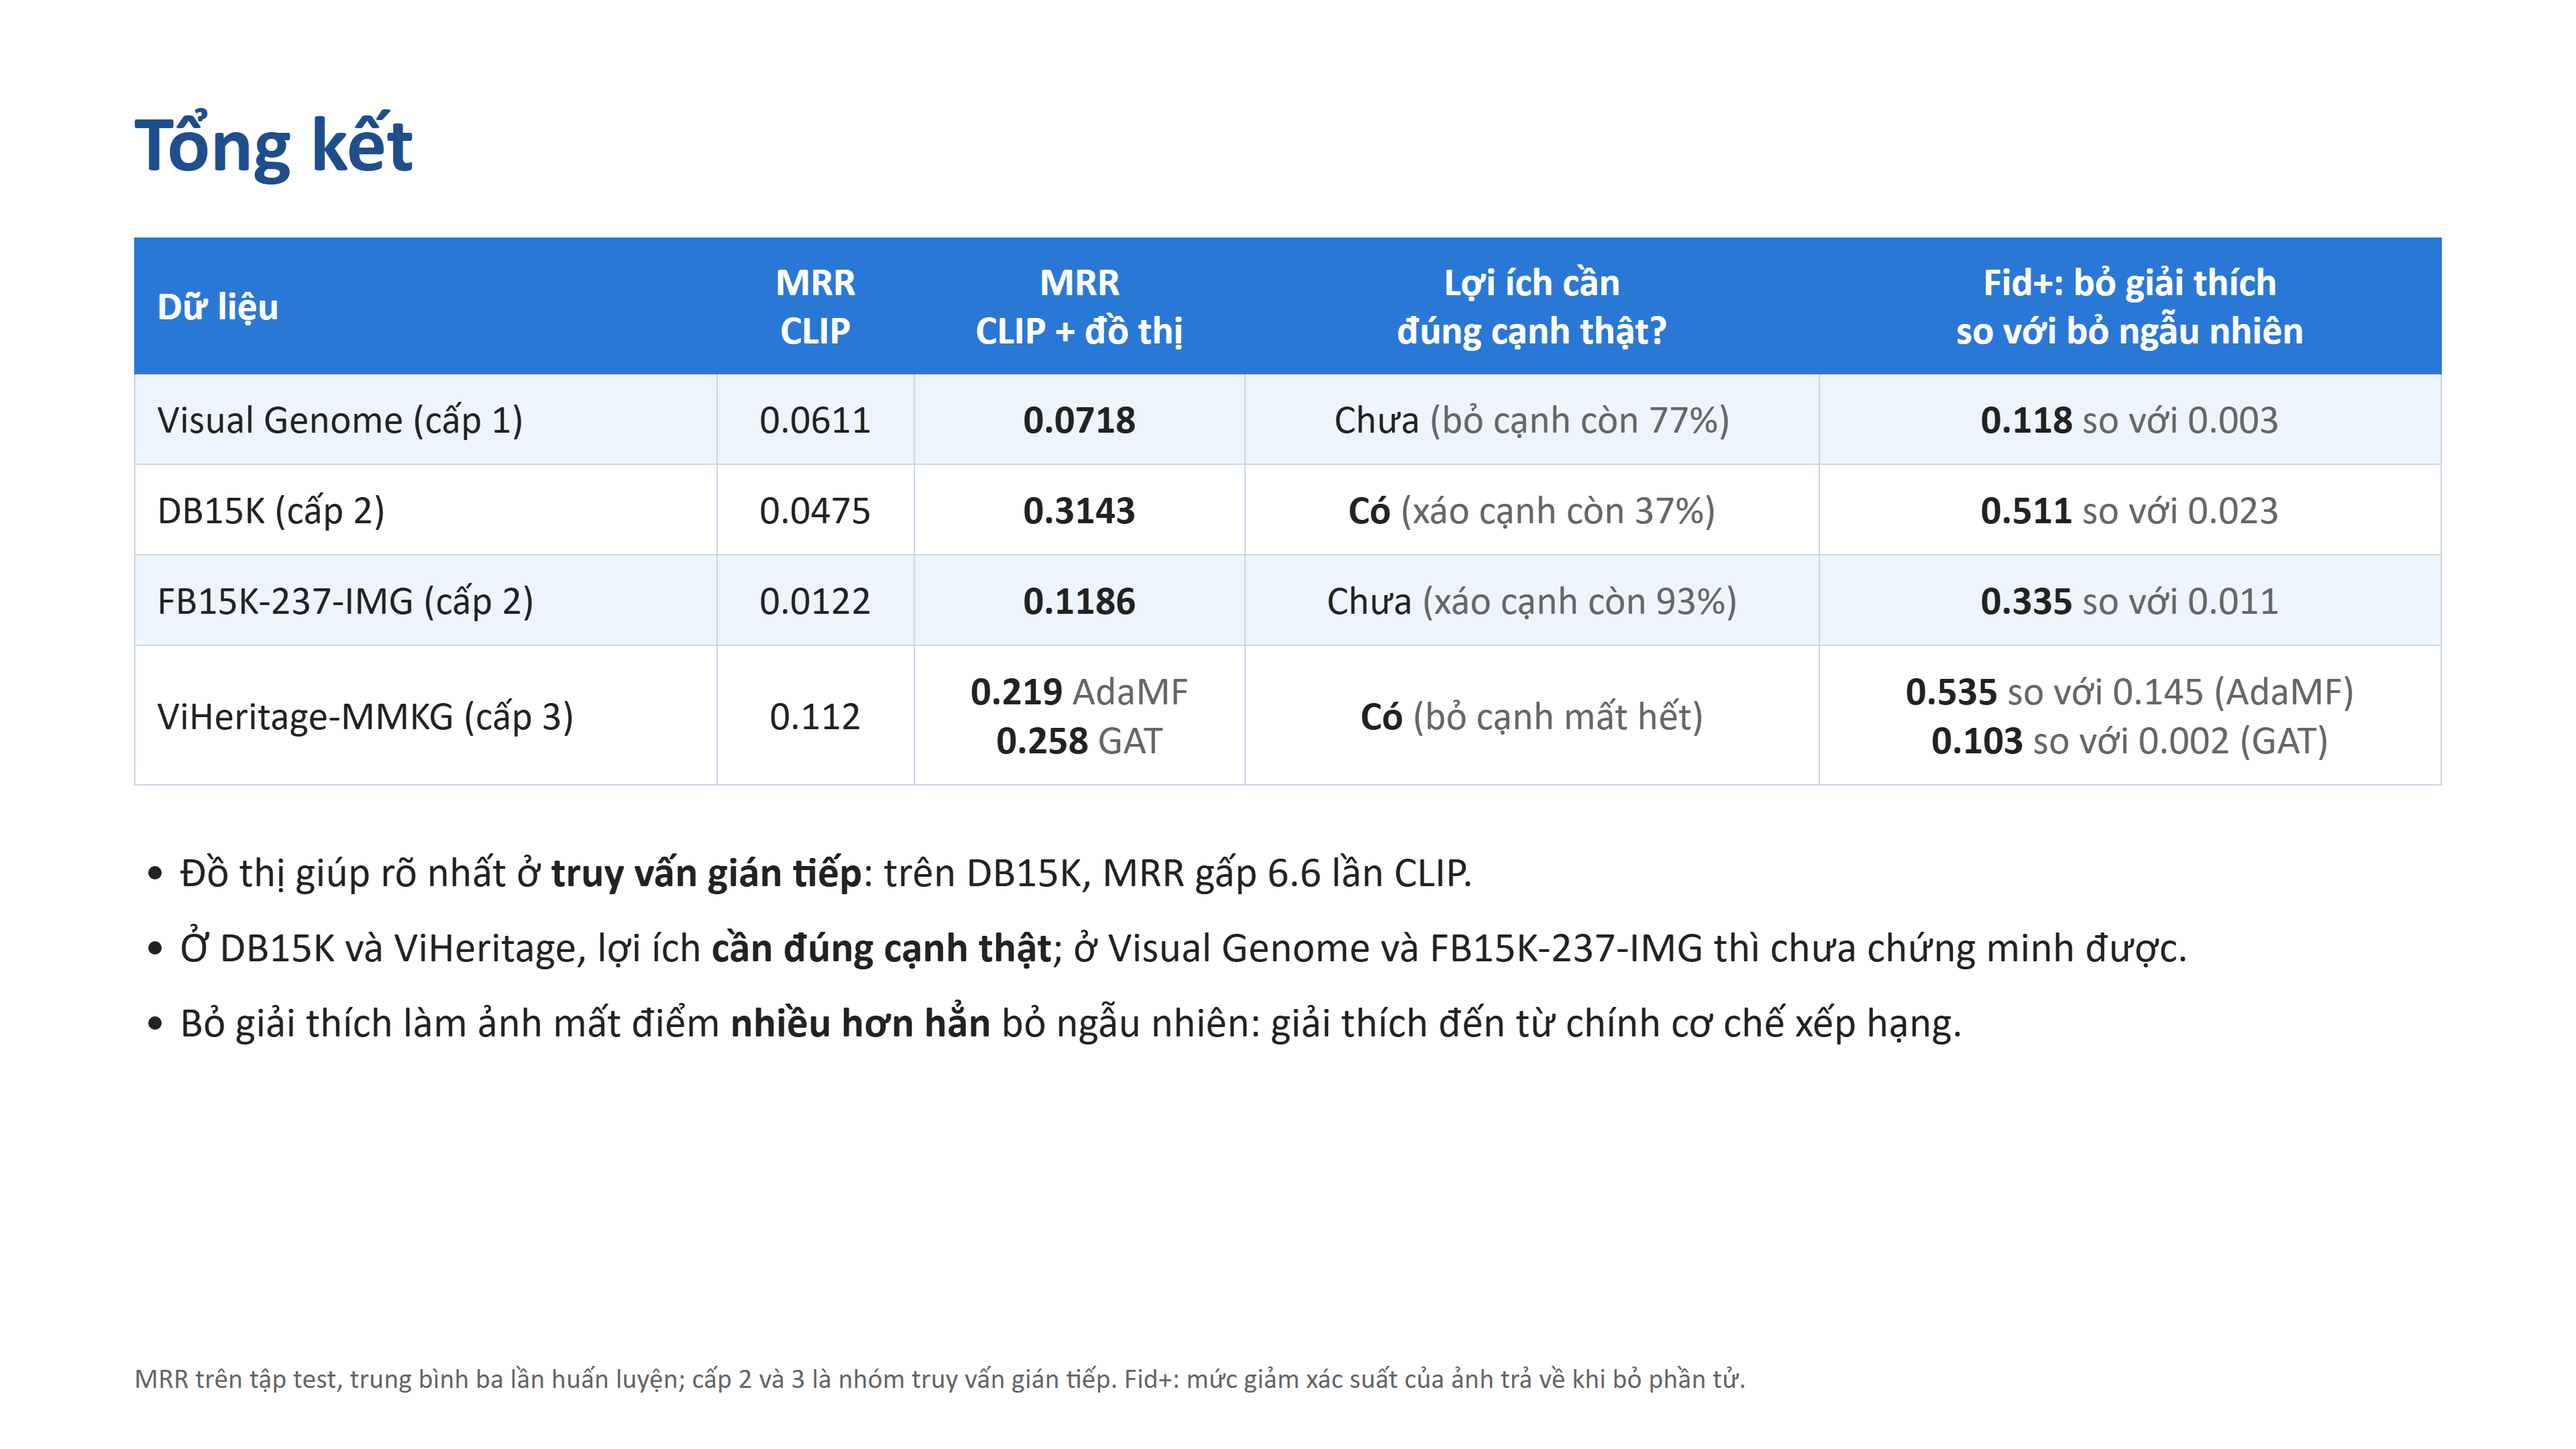
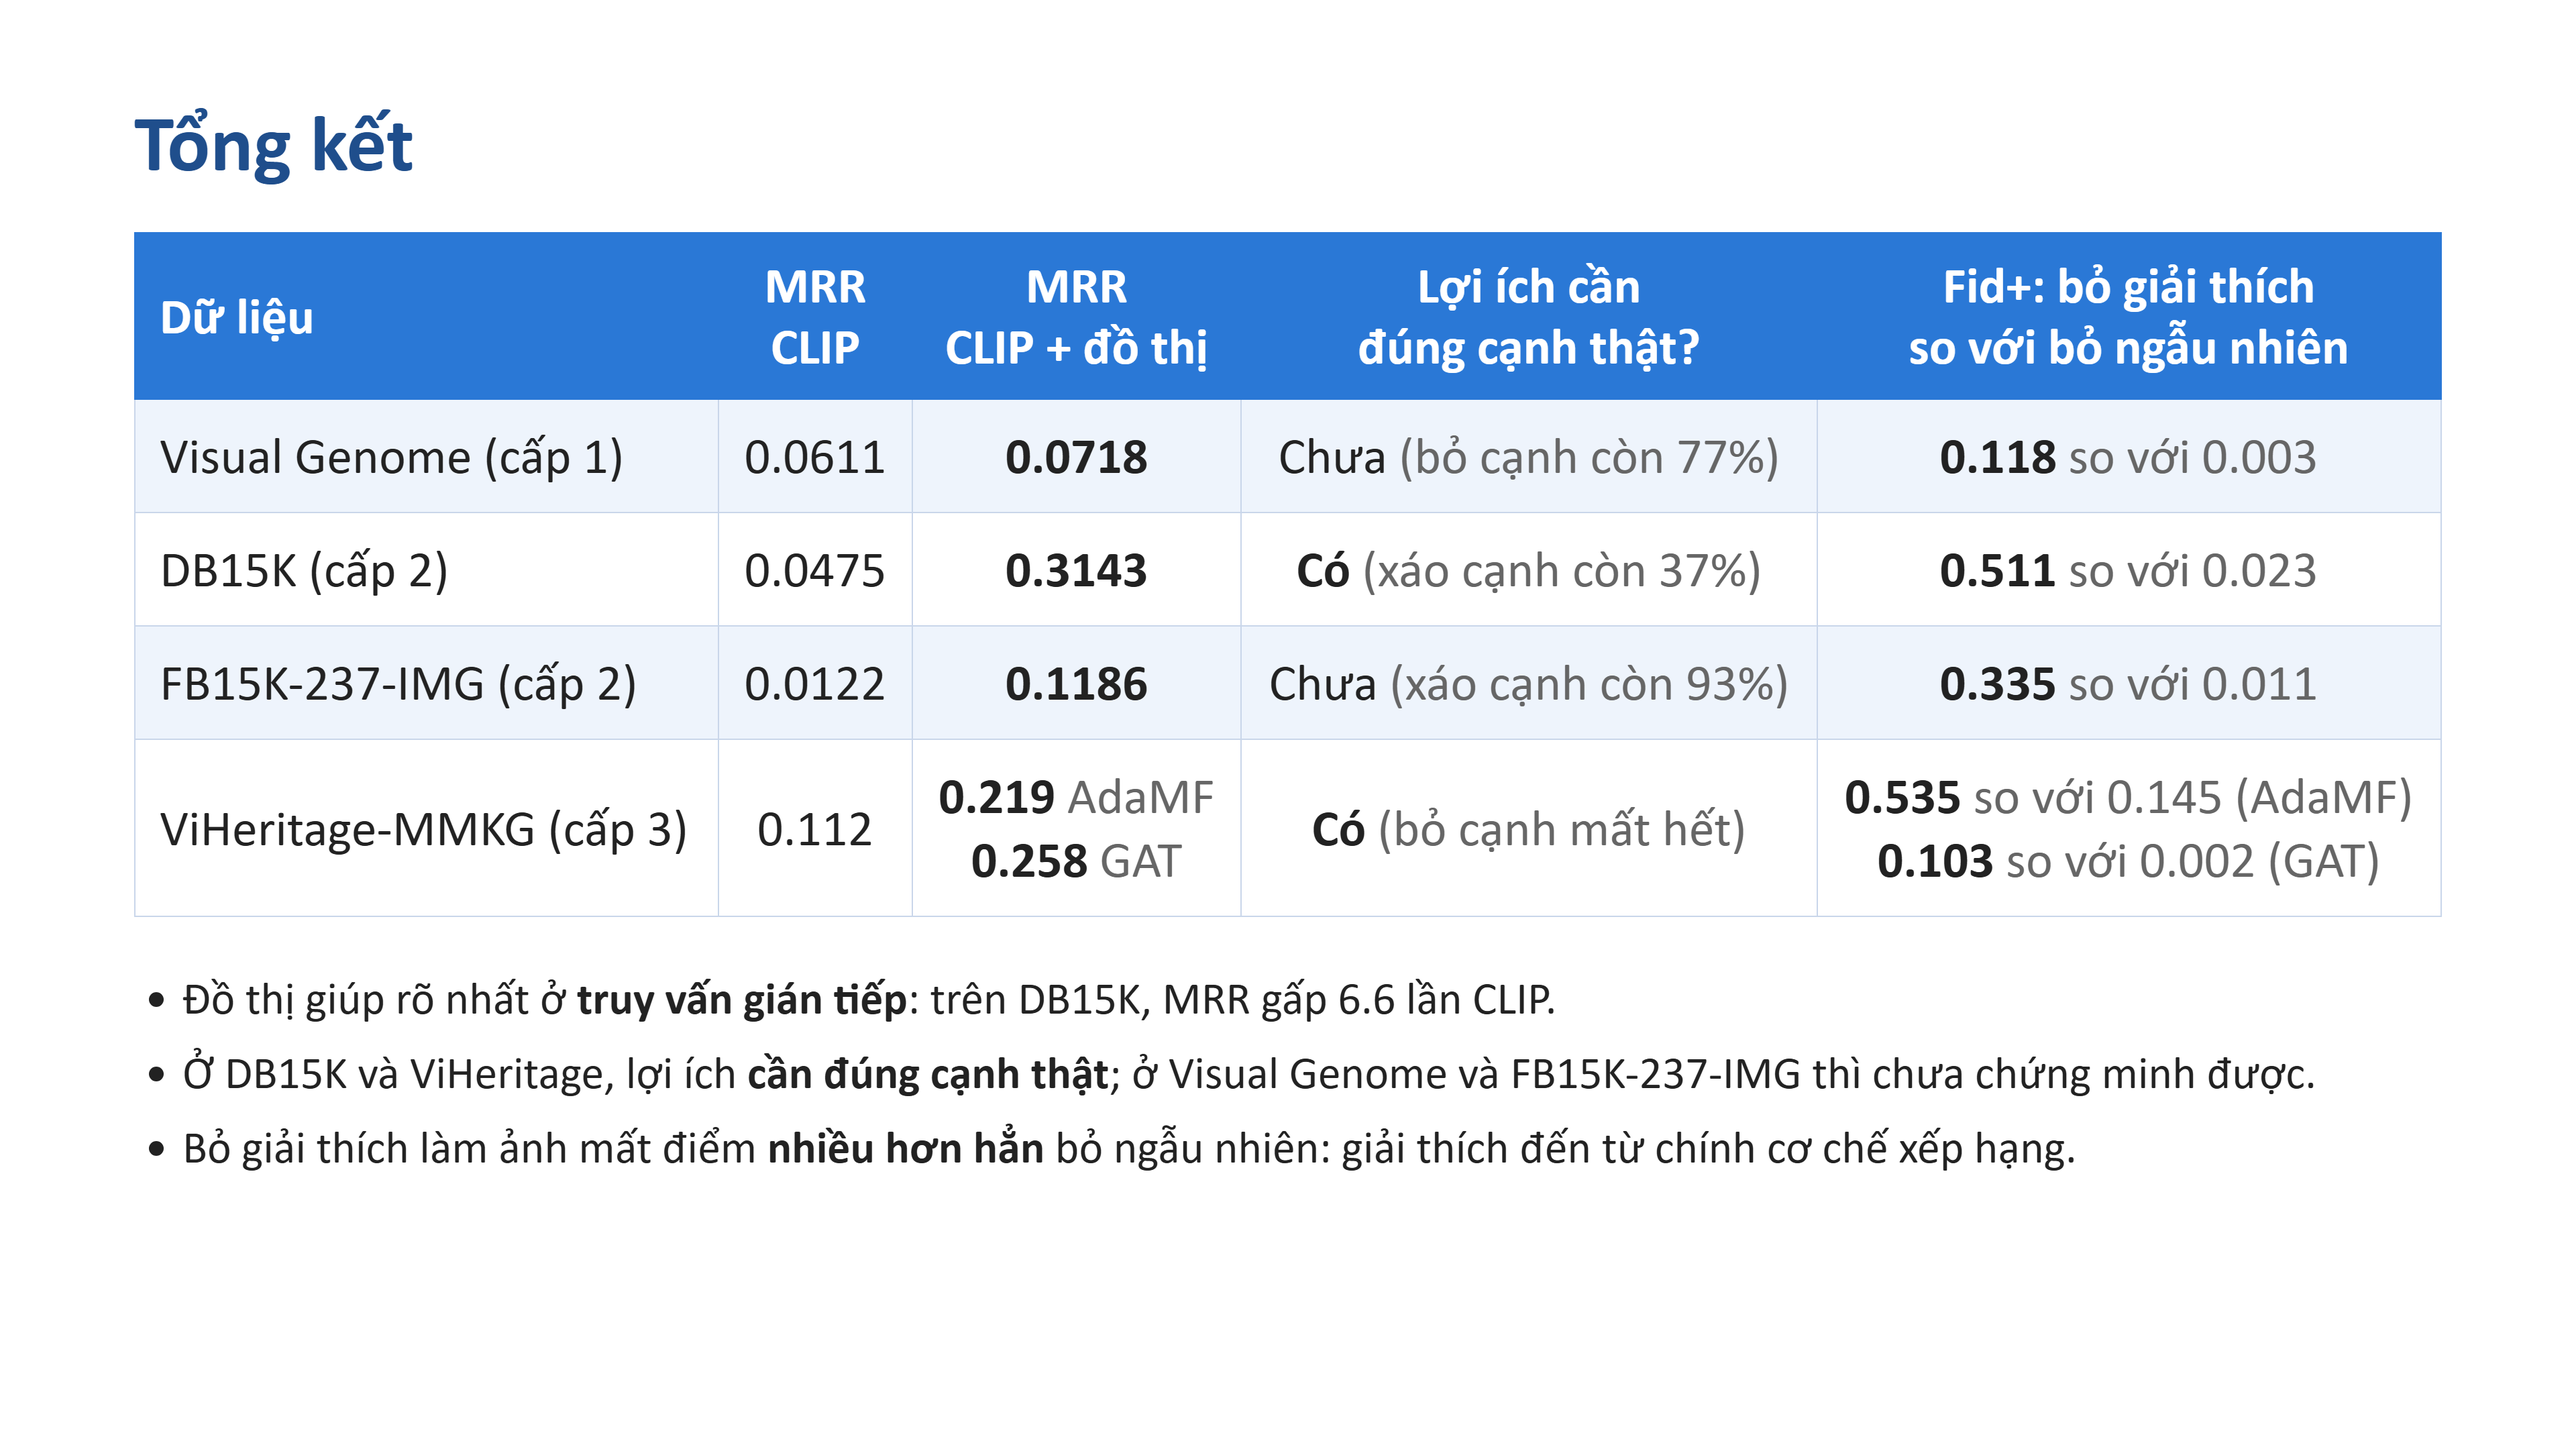
Phóng to bảng và bỏ chú thích cuối trong slide tổng kết

diff --git a/demo/slide_tong_ket.html b/demo/slide_tong_ket.html
@@ -8,16 +8,15 @@
   *{box-sizing:border-box}
   html,body{margin:0;background:#fff}
   body{position:relative;width:1920px;height:1080px;padding:70px 100px 50px;font-family:Calibri,"Segoe UI",Arial,sans-serif;color:#222}
-  h1{margin:0 0 34px;font-size:60px;font-weight:700;color:#1f4e8c}
-  table{width:100%;border-collapse:collapse;font-size:30px}
-  th{background:#2a78d6;color:#fff;font-weight:700;padding:14px 16px;text-align:center;border:1px solid #2a78d6;line-height:1.2}
-  td{padding:15px 16px;text-align:center;border:1px solid #c9d6ea}
+  h1{margin:0 0 30px;font-size:60px;font-weight:700;color:#1f4e8c}
+  table{width:100%;border-collapse:collapse;font-size:38px}
+  th{background:#2a78d6;color:#fff;font-weight:700;padding:16px 18px;text-align:center;border:1px solid #2a78d6;line-height:1.2}
+  td{padding:18px 18px;text-align:center;border:1px solid #c9d6ea;line-height:1.25}
   tbody tr:nth-child(odd) td{background:#eef4fc}
   .l{text-align:left}
   .g{color:#666}
-  ul{margin:40px 0 0;padding-left:34px;font-size:32px;line-height:1.5}
-  li{margin-bottom:8px}
-  .foot{position:absolute;left:100px;bottom:40px;font-size:21px;color:#666}
+  ul{margin:36px 0 0;padding-left:36px;font-size:34px;line-height:1.45}
+  li{margin-bottom:6px}
 </style>
 </head>
 <body>
@@ -38,6 +37,5 @@
     <li>Ở DB15K và ViHeritage, lợi ích <b>cần đúng cạnh thật</b>; ở Visual Genome và FB15K-237-IMG thì chưa chứng minh được.</li>
     <li>Bỏ giải thích làm ảnh mất điểm <b>nhiều hơn hẳn</b> bỏ ngẫu nhiên: giải thích đến từ chính cơ chế xếp hạng.</li>
   </ul>
-  <div class="foot">MRR trên tập test, trung bình ba lần huấn luyện; cấp 2 và 3 là nhóm truy vấn gián tiếp. Fid+: mức giảm xác suất của ảnh trả về khi bỏ phần tử.</div>
 </body>
 </html>
